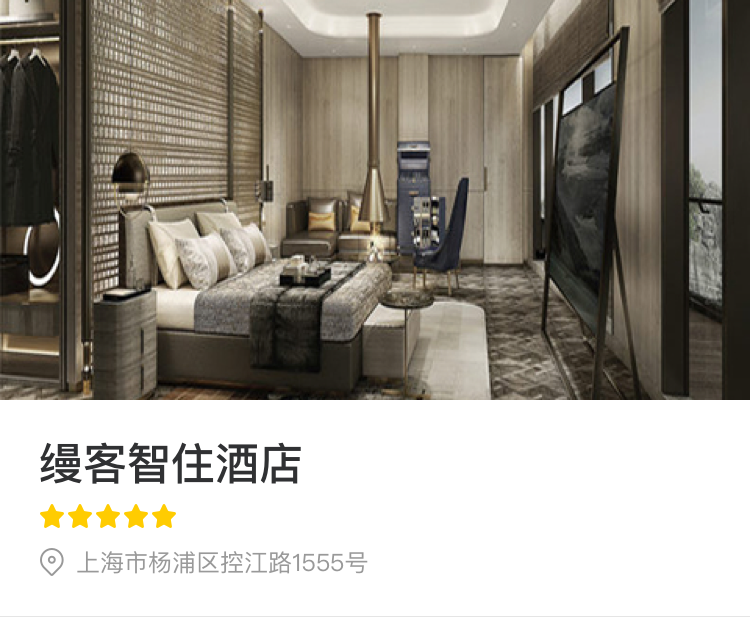
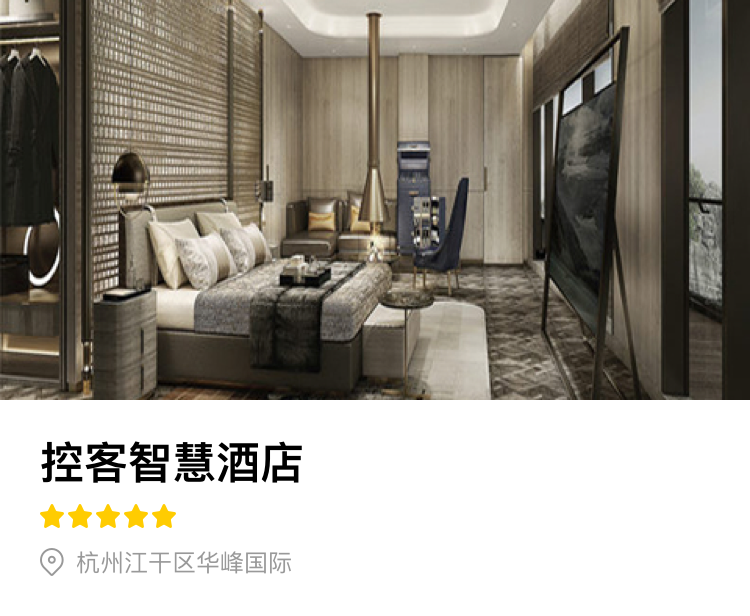
'更改酒店'

diff --git a/src/router/index.js b/src/router/index.js
@@ -26,19 +26,19 @@ export default new Router({
       path: '/book',
       component: Book,
       meta: {
-        title: '缦客智住酒店'
+        title: '控客智慧酒店'
       }
     }, {
       path: '/bookDetail',
       component: BookDetail,
       meta: {
-        title: '缦客智住酒店'
+        title: '控客智慧酒店'
       }
     }, {
       path: '/*',
       component: Index,
       meta: {
-        title: '缦客智住酒店'
+        title: '控客智慧酒店'
       }
     }
   ]

diff --git a/index.html b/index.html
@@ -3,7 +3,7 @@
   <head>
     <meta charset="utf-8">
     <meta content="width=device-width, initial-scale=1.0, maximum-scale=1.0, user-scalable=no;" name="viewport" >
-    <title>缦客智住酒店</title>
+    <title>控客智慧酒店</title>
   </head>
   <body>
     <div id="app"></div>

diff --git a/src/views/bookDetail.vue b/src/views/bookDetail.vue
@@ -2,7 +2,7 @@
   <div style="height: 100%;width:100%;position: fixed;bottom: 0" >
     <br>
     <div style="padding-left: 1rem;">
-        <h2>缦客智住酒店</h2>
+        <h2>控客智慧酒店</h2>
         <br>
         <div class="detail">
           <p>

diff --git a/src/views/book.vue b/src/views/book.vue
@@ -2,7 +2,7 @@
   <div>
     <div class="cot">
       <br>
-      <h2>缦客智住酒店</h2>
+      <h2>控客智慧酒店</h2>
       <br>
       <div class="detail">
         <p>
